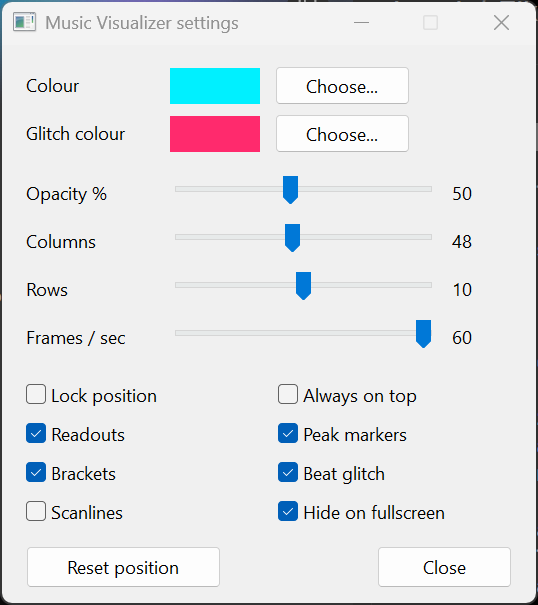
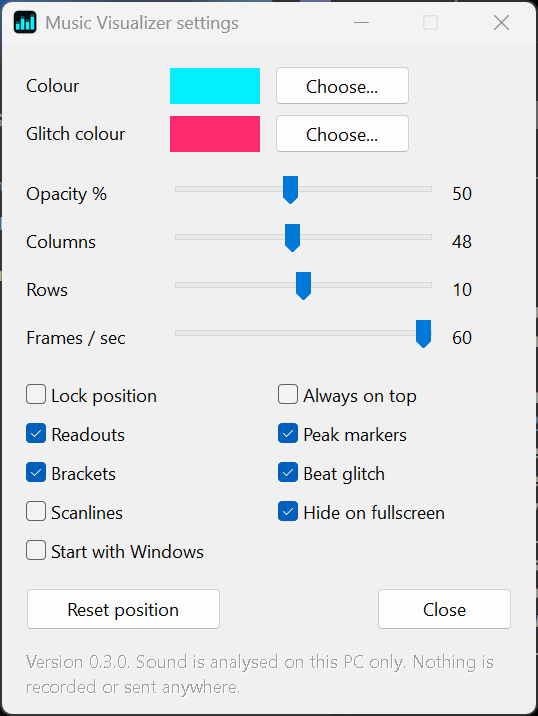
README and changelog for 0.3.0: measured numbers, privacy, testing, removal
Claude-Session: https://claude.ai/code/session_01TtJDuXeheHVWiKhc2611ZV

diff --git a/README.md b/README.md
@@ -1,22 +1,24 @@
 # Music Visualizer
 
-**A 105 KB cyberpunk music visualizer that lives on your Windows desktop.**
+**A 125 KB cyberpunk music visualizer that lives on your Windows desktop.**
 
 One `.exe`. No installer, no runtime, no browser engine. It listens to whatever your speakers are playing (Spotify, YouTube, games) and draws it as a block of neon segments. Put it anywhere on your desktop, size it, lock it, and it sits behind your windows like part of the wallpaper.
 
 ![The widget, locked](docs/widget.png)
 
+[![build](https://github.com/rezonnnnn/Music-Visualizer/actions/workflows/build.yml/badge.svg)](https://github.com/rezonnnnn/Music-Visualizer/actions/workflows/build.yml)
+
 ## Get it
 
-**[Download music-visualizer.exe](https://github.com/rezonnnnn/Music-Visualizer/releases/latest/download/music-visualizer.exe)** (105 KB), put it in any folder and double-click it.
+**[Download music-visualizer.exe](https://github.com/rezonnnnn/Music-Visualizer/releases/latest/download/music-visualizer.exe)** (125 KB), put it in any folder and double-click it.
 
 1. It appears unlocked, floating on top with a frame around it. **Drag it** where you want it and **drag an edge** to resize.
 2. **Double-click it** to lock. It drops behind your windows, clicks pass straight through it, and it remembers its spot.
-3. To change anything later, use the **tray icon** (or just run the `.exe` again): Lock position, Settings, Quit.
+3. To change anything later, use the **tray icon** (or just run the `.exe` again): Lock position, Settings, Start with Windows, Quit.
 
 ![Unlocked, ready to place](docs/unlocked.png)
 
-The file is not code-signed, so Windows SmartScreen may ask you to confirm ("More info", then "Run anyway"), and some antivirus tools may block it. If you'd rather not trust a download, build it yourself (below).
+The file is not code-signed yet, so Windows SmartScreen may ask you to confirm ("More info", then "Run anyway"), and some antivirus tools may block it. Every release is built from this source by GitHub Actions, and the release notes carry its SHA-256 so you can check your download. If you'd rather not trust a download at all, build it yourself (below).
 
 Windows 10 or 11, 64-bit.
 
@@ -31,20 +33,29 @@ Everything applies as you move the controls:
 - **Lock position** and **Always on top** (off by default: locked, it lives on the desktop behind your windows)
 - **Readouts** (tempo, loudest frequency, level), **peak markers**, **brackets**, **beat glitch**, **scanlines**
 - **Hide on fullscreen**: steps aside for fullscreen apps, games and presentations
+- **Start with Windows**
 - **Reset position**: back to bottom centre, if you lose it
 
-Settings are kept in a plain `settings.ini` next to the `.exe`. You can edit it by hand; changes apply within a second of saving.
+Settings are saved in `%APPDATA%\MusicVisualizer\settings.ini`. It is a plain text file; edits apply within a second of saving. For a portable copy (a USB stick, say), put a `settings.ini` next to the `.exe` and it will use that one instead.
+
+## Your sound stays on your PC
+
+The app reads your speaker output to draw it. That is all it does with it.
+
+- Nothing is recorded, saved or sent anywhere.
+- There is no account, no telemetry and no update check.
+- **The program contains no networking code at all.** Every build runs [a check](tests/check_imports.py) that fails if a networking library is ever linked or named.
 
 ## Why it's small
 
 | | Measured |
 |---|---|
-| Size on disk | **107,520 bytes** (one file) |
-| CPU while music plays, 60 fps | **about 0.2%** of the whole CPU (0.16% and 0.26% in two runs) |
-| CPU when nothing is playing | **0.007%** |
-| GPU (Intel integrated) | about 2.4% while playing, 0% when silent |
-| Memory | 35 MB private, almost all of it the graphics driver Windows loads |
-| Source | one C++ file, about 870 lines, no dependencies |
+| Size on disk | **128,512 bytes** (one file) |
+| CPU while music plays, 60 fps | **about 0.13%** of the whole CPU |
+| CPU when nothing is playing | **0.00%** |
+| GPU (Intel integrated) | about 2.8% while playing, 0% when silent |
+| Memory | 34 MB private, almost all of it the graphics driver Windows loads |
+| Source | two C++ files, about 1,100 lines, no dependencies |
 
 Measured in 15 to 20 second samples on a Core Ultra 5 235U laptop (14 threads, Intel integrated graphics, Windows 11, 1920x1200 at 60 Hz) with a 120 BPM test track.
 
@@ -57,6 +68,24 @@ How it stays that small:
 - **It sleeps when nothing is playing.** After 1.5 seconds of silence it fades out, stops drawing and checks for audio four times a second.
 - **Nothing is allocated after start-up.** Every buffer has a fixed size.
 
+## How it is tested
+
+Every change is built from scratch and tested on Windows Server 2022 and 2025 before it can be released:
+
+- **32 analysis tests**: tempo from 75 to 174 BPM at loud and very quiet volumes, at three sample rates, on a broken beat; no false tempo on noise, tones or silence; pure tones land in the right column; the level readout is accurate.
+- **48 app tests** on a real desktop: first-run placement, dragging with the mouse, double-click to lock, click-through, the tray menu, the settings window, the colour picker, Start with Windows, live reload, waking for music and sleeping on silence, staying on the desktop through Win+D ("Show desktop"), recovering from a lost graphics device, returning from an off-screen position, portable mode, and a clean exit.
+- **The privacy check** above.
+
+The test machines have no sound card or GPU, so they use a built-in test signal and software graphics. Real audio and GPU numbers come from the laptop above.
+
+## Remove it
+
+1. Untick **Start with Windows** if you ticked it.
+2. **Quit** from the tray icon and delete the `.exe`.
+3. Delete the folder `%APPDATA%\MusicVisualizer` if you want your settings gone too.
+
+Nothing else is left behind.
+
 ## Build it
 
 You need [Zig](https://ziglang.org/download/) (about 100 MB, unzip and go; tested with 0.17.1). No Visual Studio.
@@ -65,22 +94,18 @@ You need [Zig](https://ziglang.org/download/) (about 100 MB, unzip and go; teste
 build.cmd
 ```
 
-or directly:
+The tests need Python with numpy: `python tests/run_tests.py build/analysis_test.exe` after building `tests/analysis_test.cpp`, and `tests/ui_test.ps1` for the app tests (it changes your Music Visualizer settings, so it is meant for a test machine). The workflow in `.github/workflows/build.yml` shows the exact commands.
 
-```
-zig c++ -target x86_64-windows-gnu -O2 -fno-exceptions -fno-rtti -s -Wl,--subsystem,windows src/main.cpp -o music-visualizer.exe -ld3d11 -ldxgi -ldcomp -lole32 -luser32 -lgdi32 -lshell32
-```
+## Known limits
 
-## Status
+- **Not code-signed yet**, so expect a SmartScreen prompt, and some corporate antivirus tools remove it.
+- **Tested hardware is narrow**: one Intel laptop plus GitHub's test machines. AMD and Nvidia graphics, and setups with more than one monitor, have not been tried.
+- **Tempo is tested on generated drum tracks**, not on a library of real songs. It shows `---` when it is not sure.
+- **Switching audio devices** (plugging in headphones) is handled in the code but not covered by a test.
+- **Memory** is 34 MB because of the graphics driver; a lighter drawing path is on the list.
 
-Early, but it works. So you know what you're getting:
-
-- **Tested** on one Windows 11 laptop: first-run placement, the drag and resize handles, double-click to lock, click-through when locked, saving position, the settings window (slider and checkbox), live reload of `settings.ini`, sleeping on silence, and the numbers above.
-- **Not yet tested**: the colour picker, the tray menu itself, opening settings by running the `.exe` a second time, Reset position, switching audio devices, more than one monitor, and how it behaves with "Show desktop" (Win+D).
-- **Tempo is approximate.** The BPM readout can read high on some music.
-- **Antivirus**: small unsigned programs that record audio and draw on the desktop can trip corporate antivirus. One removed test builds during development. Building from source lets you see exactly what runs.
-- **Next**: bring memory down (the 35 MB is the price of loading the graphics driver), steadier tempo detection, and a signed download.
+Found a problem? [Open an issue](https://github.com/rezonnnnn/Music-Visualizer/issues).
 
 ## Licence
 
-MIT. See [LICENSE](LICENSE).
+MIT. See [LICENSE](LICENSE). Changes are listed in [CHANGELOG.md](CHANGELOG.md).

diff --git a/CHANGELOG.md b/CHANGELOG.md
@@ -6,6 +6,7 @@ Made ready for everyday use.
 
 - **Start with Windows**: a tick box in Settings and in the tray menu.
 - **Reliable tempo**: the BPM readout was rebuilt and is now covered by tests from 75 to 174 BPM, at loud and very quiet volumes. It shows `---` until it is sure.
+- **Stays put on the desktop**: the locked widget now survives Win+D ("Show desktop") instead of vanishing.
 - **Recovers by itself**: after a graphics driver update or reset, when a monitor is unplugged (it returns to a visible screen), and when Explorer restarts (the tray icon comes back).
 - **Settings live in your user folder** (`%APPDATA%\MusicVisualizer`), so the app works from any folder. Keep a `settings.ini` next to the `.exe` for a portable copy.
 - **Proper Windows citizen**: its own icon, version details in the file properties, and a tray tip that says when no audio device is found.
